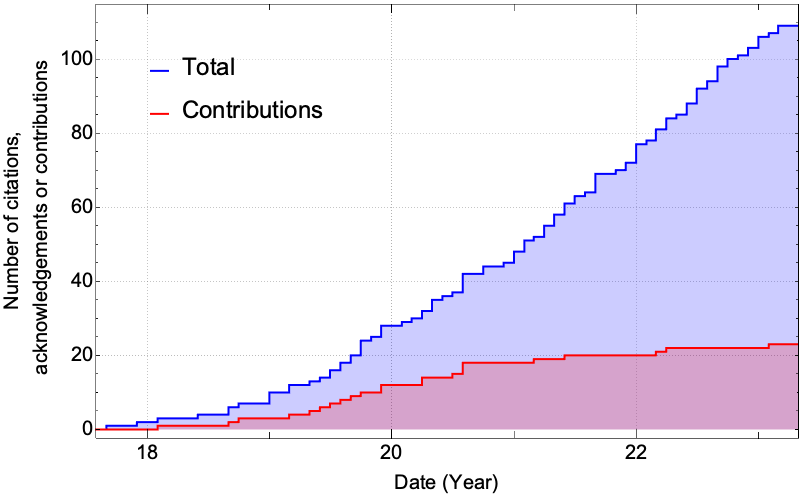
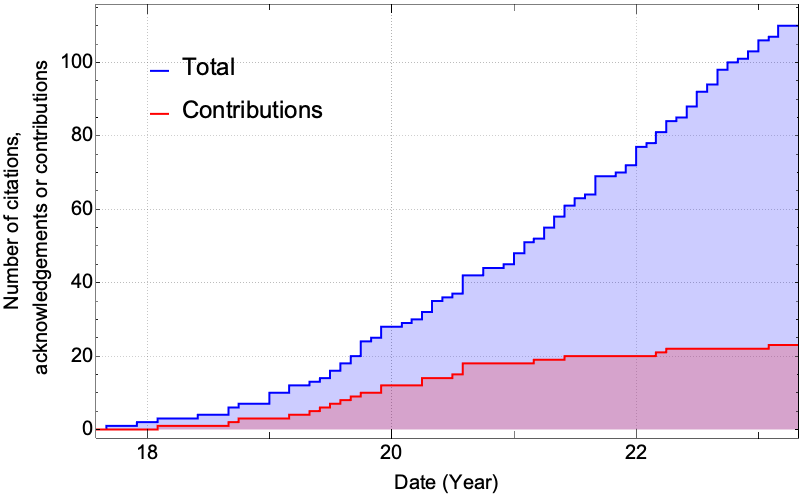
Add another paper the cites the Toolkit

diff --git a/users.md b/users.md
@@ -19,7 +19,9 @@ The graph below show the accumulated citations to the Toolkit over time. The blu
 
 Below is a list of research papers that have used or extended the Toolkit. Papers that have contributed code or data to the Toolkit have a (*) after them.
 
-109\. "Enhancing the SEOBNRv5 effective-one-body waveform model with second-order gravitational self-force fluxes", Maarten van de Meent, Alessandra Buonanno, Deyan P. Mihaylov, Serguei Ossokine, Lorenzo Pompili, Niels Warburton, Adam Pound, Barry Wardell, Leanne Durkan, Jeremy Miller, [arXiv:2303.18026](https://arxiv.org/abs/2303.18026)
+110\. "Enhancing the SEOBNRv5 effective-one-body waveform model with second-order gravitational self-force fluxes", Maarten van de Meent, Alessandra Buonanno, Deyan P. Mihaylov, Serguei Ossokine, Lorenzo Pompili, Niels Warburton, Adam Pound, Barry Wardell, Leanne Durkan, Jeremy Miller, [arXiv:2303.18026](https://arxiv.org/abs/2303.18026)
+
+109\. "Asymptotic gravitational-wave fluxes from a spinning test body on generic orbits around a Kerr black hole", Viktor Skoupý, Georgios Lukes-Gerakopoulos, Lisa V. Drummond, Scott A. Hughes, [arXiv:2303.16798](https://arxiv.org/abs/2303.16798)
 
 108\. "Black holes surrounded by generic dark matter profiles: appearance and gravitational-wave emission", Enzo Figueiredo, Andrea Maselli, Vitor Cardoso, [arXiv:2303.08183](https://arxiv.org/abs/2303.08183)
 
